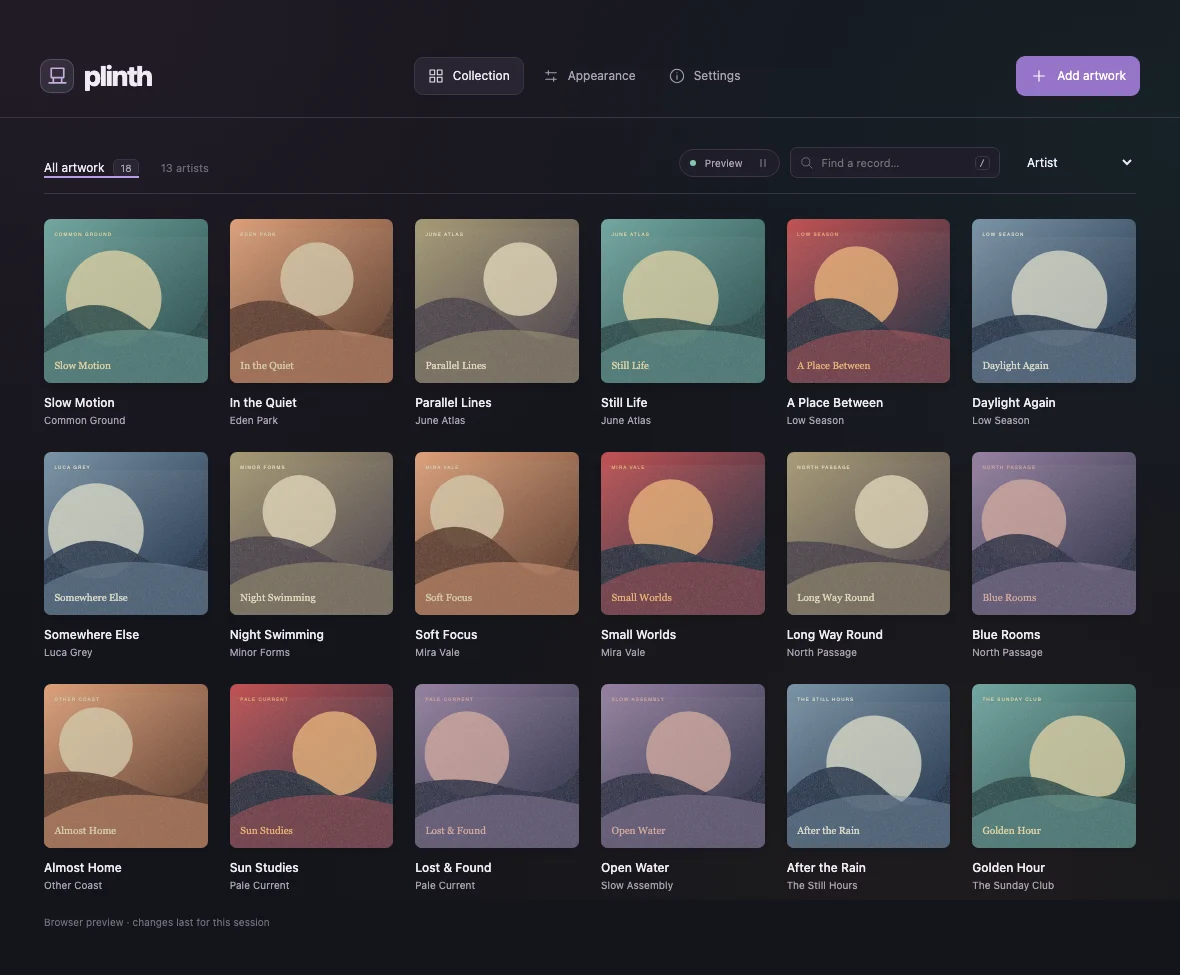
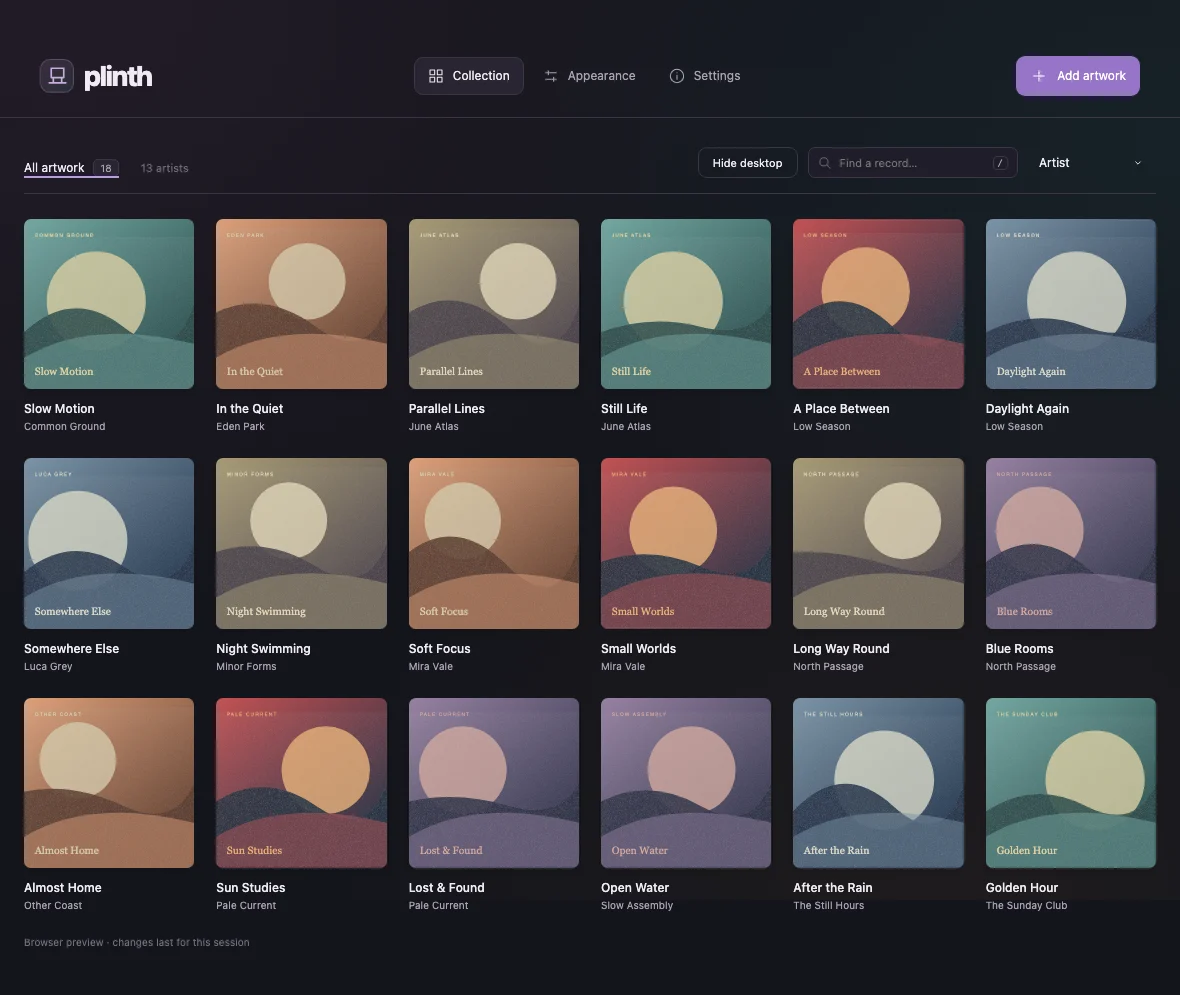
Refine tray actions, artwork controls, navigation, sorting, and window sizing

diff --git a/src/App.svelte b/src/App.svelte
@@ -9,6 +9,9 @@
  import { defaultSettings, ordered, type Library, type Album, type Layout } from './lib/types'
  const desktop=new URLSearchParams(location.search).has('desktop')
  let library:Library={albums:[],settings:structuredClone(defaultSettings)}
+ let sortOpen=false
+ const sortOptions=[{value:'artist',label:'Artist'},{value:'title',label:'Title'},{value:'date',label:'Newest date'},{value:'oldest',label:'Oldest date'},{value:'shuffle',label:'Shuffled'}]
+ function chooseSort(value:string){library.settings.sort=value;if(value==='shuffle'){const next=new Uint32Array(1);do{crypto.getRandomValues(next)}while(next[0]===library.settings.shuffleSeed);library.settings.shuffleSeed=next[0]}sortOpen=false;persist()}
  let page='collection',query='',busy=false,loaded=false,error='',notice='',dragging=false
  let edit:Album|null=null,confirmRemove=false
  let profile:'layout'|'wideLayout'='layout'
@@ -31,7 +34,7 @@
  $: settings=library.settings
  $: layout=settings[profile]
  $: enabled=library.albums.filter(a=>a.enabled)
- $: filtered=ordered(library.albums.filter(a=>`${a.title} ${a.artist}`.toLowerCase().includes(query.toLowerCase())),settings.sort)
+ $: filtered=ordered(library.albums.filter(a=>`${a.title} ${a.artist}`.toLowerCase().includes(query.toLowerCase())),settings.sort,settings.shuffleSeed)
  $: artists=new Set(library.albums.map(a=>a.artist).filter(Boolean)).size
  $: if(typeof document!=='undefined') {document.documentElement.dataset.theme=settings.theme==='system'?(mediaDark?'dark':'light'):settings.theme;document.documentElement.classList.toggle('desktop-document',desktop)}
  $: if(edit && modal && !modal.open) modal.showModal()
@@ -84,7 +87,7 @@
  })
 </script>
 
- <svelte:window onkeydown={(e)=>{if(desktop)return;if((e.metaKey||e.ctrlKey)&&e.key.toLowerCase()==='q'){e.preventDefault();showQuit();return}if((e.metaKey||e.ctrlKey)&&e.key.toLowerCase()==='w'){e.preventDefault();void hideWindow();return}if(e.key==='/' && !(e.target instanceof HTMLInputElement) && !(e.target instanceof HTMLSelectElement)){e.preventDefault();document.querySelector<HTMLInputElement>('.search input')?.focus()}if((e.metaKey||e.ctrlKey)&&e.key==='o'){e.preventDefault();void choose()}if(e.key==='Escape'){if(quitDialog?.open)quitDialog.close();else closeEditor()}}}/>
+ <svelte:window onpointerdown={(e)=>{if(!(e.target instanceof Element)||!e.target.closest('.sort-picker'))sortOpen=false}} onkeydown={(e)=>{if(desktop)return;if(e.key==='Escape'&&sortOpen){sortOpen=false;return}if(e.altKey&&!e.metaKey&&!e.ctrlKey&&(e.code==='KeyQ'||e.code==='KeyW')){if(modal?.open||quitDialog?.open)return;e.preventDefault();const pages=['collection','appearance','settings'];page=pages[(pages.indexOf(page)+(e.code==='KeyQ'?-1:1)+pages.length)%pages.length];return}if((e.metaKey||e.ctrlKey)&&e.key.toLowerCase()==='q'){e.preventDefault();showQuit();return}if((e.metaKey||e.ctrlKey)&&e.key.toLowerCase()==='w'){e.preventDefault();void hideWindow();return}if(e.key==='/' && !(e.target instanceof HTMLInputElement) && !(e.target instanceof HTMLSelectElement)){e.preventDefault();document.querySelector<HTMLInputElement>('.search input')?.focus()}if((e.metaKey||e.ctrlKey)&&e.key==='o'){e.preventDefault();void choose()}if(e.key==='Escape'){if(quitDialog?.open)quitDialog.close();else closeEditor()}}}/>
 {#if desktop}
  <Desktop {library}/>
 {:else}
@@ -104,11 +107,11 @@
   {#if notice}<div class="toast" role="status"><Icon name="check"/>{notice}</div>{/if}
   <main>
    {#if page==='collection'}
-    <section class="collection-toolbar"><div class="collection-tabs"><span class="tab-selected">All artwork <span>{library.albums.length}</span></span><span class="collection-meta">{artists} artists</span></div><div class="toolbar-right"><button class="status-pill" class:paused={!settings.desktopEnabled} aria-pressed={settings.desktopEnabled} onclick={()=>{settings.desktopEnabled=!settings.desktopEnabled;persist()}}><span class="status-dot"></span>{api.native?(settings.desktopEnabled?'Desktop on':'Desktop off'):'Preview'}<Icon name={settings.desktopEnabled?'pause':'play'}/></button><label class="search"><Icon name="search"/><input aria-label="Search collection" type="search" placeholder="Find a record…" bind:value={query}/><kbd>/</kbd></label><select aria-label="Sort collection" bind:value={settings.sort} onchange={persist}><option value="artist">Artist</option><option value="title">Title</option><option value="date">Newest release</option><option value="shuffle">Shuffled</option></select></div></section>
+    <section class="collection-toolbar"><div class="collection-tabs"><span class="tab-selected">All artwork <span>{library.albums.length}</span></span><span class="collection-meta">{artists} artists</span></div><div class="toolbar-right"><button class="desktop-toggle" onclick={()=>{settings.desktopEnabled=!settings.desktopEnabled;persist()}}>{settings.desktopEnabled?'Hide desktop':'Show desktop'}</button><label class="search"><Icon name="search"/><input aria-label="Search collection" type="search" placeholder="Find a record…" bind:value={query}/><kbd>/</kbd></label><div class="sort-picker"><button class="sort-trigger" aria-label="Sort collection" aria-haspopup="menu" aria-expanded={sortOpen} onclick={()=>sortOpen=!sortOpen}>{sortOptions.find(o=>o.value===settings.sort)?.label}<Icon name="chevron"/></button>{#if sortOpen}<div class="sort-menu" role="menu" aria-label="Sort collection">{#each sortOptions as option}<button role="menuitemradio" aria-checked={settings.sort===option.value} onclick={()=>chooseSort(option.value)}>{option.label}{#if settings.sort===option.value}<Icon name="check"/>{/if}</button>{/each}</div>{/if}</div></div></section>
     {#if !loaded}<div class="empty-state"><Icon name="plinth"/><h2>Opening your collection…</h2></div>
     {:else if library.albums.length===0}<div class="empty-state"><div class="empty-art"><Icon name="music"/></div><span class="eyebrow">ROOM FOR YOUR FAVORITES</span><h2>Start with a record you love.</h2><p>Drop your artwork here, or choose images from your Mac.<br/>We’ll resize and organize everything for you.</p><div class="actions"><button class="primary" onclick={()=>choose()}><Icon name="plus"/>Add artwork</button></div><small>PNG, JPEG, WebP, GIF, TIFF, and BMP</small></div>
     {:else if filtered.length===0}<div class="empty-state"><Icon name="search"/><h2>No records found.</h2><button onclick={()=>query=''}>Clear search</button></div>
-    {:else}<div class="album-grid">{#each filtered as album (album.id)}<article class="album-card" class:disabled={!album.enabled}><button class="artwork" onclick={()=>{edit={...album};confirmRemove=false}} aria-label={`Edit ${album.title}`}><img src={api.coverUrl(album)} alt={`${album.title} artwork`} loading="lazy"/><span class="artwork-edit"><Icon name="settings"/>Edit record</span>{#if !album.enabled}<span class="hidden-label">Hidden</span>{/if}</button><div class="album-caption"><div><h2 title={album.title}>{album.title}</h2><p title={album.artist}>{album.artist||'Unknown artist'}</p></div><button class="icon-only album-open" title="Open in Music" aria-label={`Open ${album.title} in Music`} onclick={()=>open(album)}><Icon name="arrow"/></button></div></article>{/each}</div>{/if}
+    {:else}<div class="album-grid">{#each filtered as album (album.id)}<article class="album-card" class:disabled={!album.enabled}><button class="artwork" onclick={()=>{edit={...album};confirmRemove=false}} aria-label={`Edit ${album.title}`}><img draggable="false" ondragstart={(e)=>e.preventDefault()} src={api.coverUrl(album)} alt={`${album.title} artwork`} loading="lazy"/><span class="artwork-edit"><Icon name="settings"/>Edit record</span>{#if !album.enabled}<span class="hidden-label">Hidden</span>{/if}</button><div class="album-caption"><div><h2 title={album.title}>{album.title}</h2><p title={album.artist}>{album.artist||'Unknown artist'}</p></div><button class="icon-only album-open" title="Open in Music" aria-label={`Open ${album.title} in Music`} onclick={()=>open(album)}><Icon name="arrow"/></button></div></article>{/each}</div>{/if}
    {:else if page==='appearance'}
     <div class="appearance-layout"><section class="preview-column">
     <div class="screen-picker" role="group" aria-label="Preview display">
@@ -138,8 +141,8 @@
  </div>
  <input class="visually-hidden" bind:this={files} type="file" accept="image/*" multiple onchange={(e)=>{void browserFiles(Array.from(e.currentTarget.files??[]));e.currentTarget.value=''}} aria-label="Artwork files"/>
  <input class="visually-hidden" bind:this={replacementFiles} type="file" accept="image/*" aria-label="Replacement image" onchange={(e)=>{const file=e.currentTarget.files?.[0];if(file)void replace(file);e.currentTarget.value=''}}/>
- <dialog bind:this={modal} onpointerdown={(e)=>backdropPointerDown=e.target===modal&&outsideDialog(modal,e)} onpointerup={(e)=>{if(backdropPointerDown&&e.target===modal&&outsideDialog(modal,e))closeEditor();backdropPointerDown=false}} onclose={()=>{edit=null;confirmRemove=false}} oncancel={closeEditor}>
- {#if edit}<form onsubmit={(e)=>{e.preventDefault();void saveAlbum()}}><div class="modal-heading"><button class="icon-only" type="button" aria-label="Close album editor" onclick={closeEditor}><Icon name="close"/></button></div><div class="editor-top"><div class="editor-artwork" bind:this={artworkTarget} class:replacing ondragover={(e)=>e.preventDefault()} ondrop={(e)=>{e.preventDefault();if(!api.native&&e.dataTransfer?.files.length===1)void replace(e.dataTransfer.files[0])}} role="presentation"><img src={api.originalUrl(edit)} alt={edit.title}/><div class="artwork-actions"><button type="button" class="icon-only" aria-label="Download original artwork" title="Download original artwork" onclick={download} disabled={replacing}><Icon name="download"/></button><button type="button" class="icon-only" aria-label="Replace artwork" title="Replace artwork" onclick={chooseReplacement} disabled={replacing}><Icon name="replace"/></button></div>{#if replacing}<span class="replacement-progress">Replacing…</span>{/if}</div><div><span class="eyebrow">IN YOUR COLLECTION</span><h3>{edit.title}</h3><p>{edit.artist||'Make it your own.'}</p><button type="button" class="text-button" onclick={()=>edit&&open(edit)}><Icon name="music"/>Open in Music</button></div></div><label>Album title<input required bind:value={edit.title}/></label><div class="two-fields"><label>Artist<input bind:value={edit.artist}/></label><label>Release date<input type="date" bind:value={edit.date}/></label></div><label>Album link <span class="optional">optional</span><input type="url" placeholder="https://music.apple.com/…" bind:value={edit.url}/></label><label class="toggle-row"><span>Show on desktop</span><input class="switch" type="checkbox" bind:checked={edit.enabled}/></label><div class="editor-actions">{#if confirmRemove}<button type="button" class="danger" onclick={remove}>Remove this album</button><button type="button" onclick={()=>confirmRemove=false}>Keep it</button>{:else}<button type="button" class="icon-only danger" aria-label="Remove album" onclick={()=>confirmRemove=true}><Icon name="trash"/></button><button type="submit" class="primary"><Icon name="check"/>Save changes</button>{/if}</div></form>{/if}
+ <dialog class="album-dialog" bind:this={modal} onpointerdown={(e)=>backdropPointerDown=e.target===modal&&outsideDialog(modal,e)} onpointerup={(e)=>{if(backdropPointerDown&&e.target===modal&&outsideDialog(modal,e))closeEditor();backdropPointerDown=false}} onclose={()=>{edit=null;confirmRemove=false}} oncancel={closeEditor}>
+ {#if edit}<form onsubmit={(e)=>{e.preventDefault();void saveAlbum()}}><div class="modal-heading"><button class="icon-only" type="button" aria-label="Close album editor" onclick={closeEditor}><Icon name="close"/></button></div><div class="editor-top"><div class="editor-artwork" bind:this={artworkTarget} class:replacing ondragover={(e)=>e.preventDefault()} ondrop={(e)=>{e.preventDefault();if(!api.native&&e.dataTransfer?.files.length===1)void replace(e.dataTransfer.files[0])}} role="presentation"><img draggable="false" ondragstart={(e)=>e.preventDefault()} src={api.originalUrl(edit)} alt={edit.title}/><div class="artwork-actions"><button type="button" class="icon-only" aria-label="Download original artwork" title="Download original artwork" onclick={download} disabled={replacing}><Icon name="download"/></button><button type="button" class="icon-only" aria-label="Replace artwork" title="Replace artwork" onclick={chooseReplacement} disabled={replacing}><Icon name="replace"/></button></div>{#if replacing}<span class="replacement-progress">Replacing…</span>{/if}</div><div><span class="eyebrow">IN YOUR COLLECTION</span><h3>{edit.title}</h3><p>{edit.artist||'Make it your own.'}</p><button type="button" class="text-button" onclick={()=>edit&&open(edit)}><Icon name="music"/>Open in Music</button></div></div><label>Album title<input required bind:value={edit.title}/></label><div class="two-fields"><label>Artist<input bind:value={edit.artist}/></label><label>Release date<input type="date" bind:value={edit.date}/></label></div><label>Album link <span class="optional">optional</span><input type="url" placeholder="https://music.apple.com/…" bind:value={edit.url}/></label><label class="toggle-row"><span>Show on desktop</span><input class="switch" type="checkbox" bind:checked={edit.enabled}/></label><div class="editor-actions">{#if confirmRemove}<button type="button" class="danger" onclick={remove}>Remove this album</button><button type="button" onclick={()=>confirmRemove=false}>Keep it</button>{:else}<button type="button" class="icon-only danger" aria-label="Remove album" onclick={()=>confirmRemove=true}><Icon name="trash"/></button><button type="submit" class="primary"><Icon name="check"/>Save changes</button>{/if}</div></form>{/if}
  </dialog>
  <dialog class="quit-dialog" bind:this={quitDialog} aria-labelledby="quit-title" onpointerdown={(e)=>quitBackdropDown=e.target===quitDialog&&outsideDialog(quitDialog,e)} onpointerup={(e)=>{if(quitBackdropDown&&e.target===quitDialog&&outsideDialog(quitDialog,e))quitDialog.close();quitBackdropDown=false}}>
   <h2 id="quit-title">Quit Plinth?</h2><p>Hide the window to keep your desktop running, or quit Plinth.</p>

diff --git a/src/app.css b/src/app.css
@@ -19,3 +19,8 @@ dialog{width:min(510px,calc(100vw - 40px));padding:26px;border:1px solid var(--l
 .editor-artwork{position:relative;width:170px;flex:0 0 170px;aspect-ratio:1;border-radius:8px;overflow:hidden;background:var(--paper)}.editor-artwork>img{display:block;width:100%;height:100%;object-fit:contain}.artwork-actions{position:absolute;inset:auto 0 0;display:flex;justify-content:flex-end;gap:5px;padding:20px 7px 7px;background:linear-gradient(transparent,#0008)}.artwork-actions button.icon-only{color:white;background:#24212bd9;border:1px solid #ffffff2b;backdrop-filter:blur(8px)}.artwork-actions button.icon-only:hover{background:#4b415de8}.editor-artwork.replacing>img{opacity:.4}.replacement-progress{position:absolute;inset:40% 0 auto;text-align:center;font-size:12px}
 
 .quit-dialog{width:min(440px,calc(100vw - 40px))}.quit-dialog h2{font-size:20px;margin-bottom:14px}.quit-dialog p{font-size:13px;line-height:1.7;color:var(--muted)}.quit-actions{display:flex;justify-content:flex-end;gap:8px;margin-top:26px}.quit-actions button{font-size:12px;padding:9px 12px}
+
+/* Artwork remains the focus; hover actions share the lower edge. */
+.album-dialog{width:min(650px,calc(100vw - 32px))}.editor-top{gap:24px;align-items:center}.editor-artwork{width:300px;flex:0 0 300px}.artwork-actions{inset:auto 0 0;height:36%;display:grid;grid-template-columns:1fr 1fr;gap:0;padding:0;background:linear-gradient(transparent,#0008);opacity:0;transform:translateY(14px);transition:opacity .2s ease,transform .2s ease;pointer-events:none}.editor-artwork:hover .artwork-actions,.editor-artwork:focus-within .artwork-actions{opacity:1;transform:translateY(0);pointer-events:auto}.artwork-actions button.icon-only{width:100%;height:100%;padding:30px 0 10px;border:0;border-radius:0;background:transparent;backdrop-filter:none;color:#ffffffe0;align-items:flex-end}.artwork-actions button.icon-only:hover{background:linear-gradient(transparent,#ffffff0d);color:white}.artwork-actions svg{width:23px;height:23px;filter:drop-shadow(0 1px 3px #0008)}img{-webkit-user-drag:none;user-select:none}.desktop-toggle{min-width:100px;font-size:11px;padding:8px 12px;justify-content:center;text-align:center}.app-shell main{max-width:none;width:100%;padding-inline:24px}.album-grid{width:100%}@media(max-width:700px){.editor-artwork{width:260px;flex-basis:260px}.editor-top{gap:16px}}@media(max-width:520px){.editor-top{flex-direction:column;align-items:stretch}.editor-artwork{width:100%;max-width:320px;flex-basis:auto;margin:0 auto}.app-shell main{padding-inline:16px}}
+
+.sort-picker{position:relative}.sort-trigger{font-size:12px;min-width:128px;justify-content:space-between;border-color:transparent;padding:8px 10px}.sort-trigger svg{width:14px;height:14px}.sort-menu{position:absolute;z-index:30;right:0;top:calc(100% + 7px);width:175px;background:var(--paper-strong);border:1px solid var(--line);border-radius:9px;box-shadow:0 10px 30px #0004;padding:5px}.sort-menu button{width:100%;border:0;justify-content:space-between;border-radius:5px;font-size:12px;padding:10px}.sort-menu button[aria-checked=true]{color:var(--accent)}.sort-menu button:hover{background:var(--paper)}.sort-menu button svg{width:14px;height:14px}@media(max-width:760px){.toolbar-right{flex-wrap:wrap;justify-content:flex-end}.desktop-toggle{min-width:90px}.sort-trigger{min-width:105px}}

diff --git a/src/lib/types.ts b/src/lib/types.ts
@@ -1,7 +1,8 @@
 export interface Album { id: string; title: string; artist: string; date: string; url: string; cover: string; original: string; enabled: boolean }
 export interface Layout { columns: number; gap: number; rowGap: number; top: number; bottom: number; radius: number; shadow: number }
-export interface Settings { layout: Layout; wideLayout: Layout; hoverScale: number; hoverEnabled: boolean; dimOthers: boolean; opacity: number; sort: string; theme: string; desktopEnabled: boolean; openMode: string }
+export interface Settings { layout: Layout; wideLayout: Layout; hoverScale: number; hoverEnabled: boolean; dimOthers: boolean; opacity: number; sort: string; shuffleSeed: number; theme: string; desktopEnabled: boolean; openMode: string }
 export interface Library { albums: Album[]; settings: Settings }
 export const defaultLayout: Layout = { columns: 12, gap: 6, rowGap: 14, top: 42, bottom: 100, radius: 5, shadow: .4 }
-export const defaultSettings: Settings = { layout: {...defaultLayout}, wideLayout: {...defaultLayout, columns: 18}, hoverScale: 2.1, hoverEnabled: true, dimOthers: false, opacity: 1, sort: 'artist', theme: 'dark', desktopEnabled: true, openMode: 'library' }
-export function ordered(albums: Album[], sort: string) { return [...albums].sort((a,b) => sort === 'shuffle' ? a.id.localeCompare(b.id) : sort === 'date' ? b.date.localeCompare(a.date) : sort === 'title' ? a.title.localeCompare(b.title) : a.artist.localeCompare(b.artist) || a.date.localeCompare(b.date) || a.title.localeCompare(b.title)) }
+export const defaultSettings: Settings = { layout: {...defaultLayout}, wideLayout: {...defaultLayout, columns: 18}, hoverScale: 2.1, hoverEnabled: true, dimOthers: false, opacity: 1, sort: 'artist', shuffleSeed:0, theme: 'dark', desktopEnabled: true, openMode: 'library' }
+function shuffleRank(id:string,seed:number){let h=seed^2166136261;for(let i=0;i<id.length;i++){h=Math.imul(h^id.charCodeAt(i),16777619)}h=Math.imul(h^(h>>>16),2246822507);h=Math.imul(h^(h>>>13),3266489909);return (h^(h>>>16))>>>0}
+export function ordered(albums: Album[], sort: string, seed=0) { return [...albums].sort((a,b) => sort === 'shuffle' ? shuffleRank(a.id,seed)-shuffleRank(b.id,seed) : sort === 'date' ? b.date.localeCompare(a.date) : sort === 'oldest' ? a.date.localeCompare(b.date) : sort === 'title' ? a.title.localeCompare(b.title) : a.artist.localeCompare(b.artist) || a.date.localeCompare(b.date) || a.title.localeCompare(b.title)) }

diff --git a/tests/app.spec.ts b/tests/app.spec.ts
@@ -62,3 +62,17 @@ test('quit modal supports cancel, backdrop dismissal and hide',async({page})=>{
  await page.keyboard.press('Control+q');await page.mouse.click(5,5);await expect(page.getByRole('dialog')).not.toBeVisible()
  await page.keyboard.press('Control+q');await page.getByRole('button',{name:'Hide window',exact:true}).click();await expect(page.getByRole('dialog')).not.toBeVisible()
 })
+
+test('shuffle can be selected repeatedly and oldest date follows newest date',async({page})=>{
+ await page.goto('/?demo=1');const titles=()=>page.locator('.album-caption h2').allTextContents()
+ await page.getByRole('button',{name:'Sort collection',exact:true}).click();await page.getByRole('menuitemradio',{name:'Shuffled',exact:true}).click();const first=await titles()
+ await page.getByRole('button',{name:'Sort collection',exact:true}).click();await page.getByRole('menuitemradio',{name:'Shuffled',exact:true}).click();expect(await titles()).not.toEqual(first)
+ await page.getByRole('button',{name:'Sort collection',exact:true}).click();await expect(page.getByRole('menuitemradio')).toHaveText(['Artist','Title','Newest date','Oldest date','Shuffled'])
+ await page.getByRole('menuitemradio',{name:'Oldest date',exact:true}).click();await expect(page.getByRole('button',{name:'Sort collection',exact:true})).toHaveText('Oldest date')
+})
+test('Option page navigation wraps, desktop toggle uses action labels, internal artwork cannot drag',async({page})=>{
+ await page.goto('/?demo=1');await page.getByRole('button',{name:'Hide desktop',exact:true}).click();await expect(page.getByRole('button',{name:'Show desktop',exact:true})).toBeVisible()
+ await page.keyboard.press('Alt+KeyQ');await expect(page.getByRole('group',{name:'App appearance'})).toBeVisible();await page.keyboard.press('Alt+KeyW');await expect(page.locator('.album-grid')).toBeVisible()
+ const image=page.locator('.artwork img').first();await expect(image).toHaveAttribute('draggable','false')
+ await page.getByRole('button',{name:'Edit Soft Focus',exact:true}).click();await expect(page.locator('.editor-artwork>img')).toHaveAttribute('draggable','false');await expect(page.locator('.artwork-actions')).toHaveCSS('opacity','0');await page.locator('.editor-artwork').hover();await expect(page.locator('.artwork-actions')).toHaveCSS('opacity','1')
+})

diff --git a/tests/screenshots.spec.ts b/tests/screenshots.spec.ts
@@ -14,6 +14,11 @@ test('README screenshots use only synthetic demo artwork',async({page})=>{
  await page.getByRole('button',{name:'Settings',exact:true}).click()
  await page.mouse.move(0,0)
  await sharp(await page.screenshot({fullPage:true,animations:'disabled'})).webp({quality:86}).toFile('docs/screenshots/settings.webp')
+ await page.getByRole('button',{name:'Collection',exact:true}).click()
+ await page.getByRole('button',{name:'Edit Soft Focus',exact:true}).click()
+ await page.locator('.editor-artwork').hover()
+ await sharp(await page.locator('.album-dialog').screenshot({animations:'disabled'})).webp({quality:86}).toFile('docs/screenshots/album.webp')
+ await page.getByRole('button',{name:'Close album editor'}).click()
  await page.keyboard.press('Control+q')
  await sharp(await page.getByRole('dialog',{name:'Quit Plinth?'}).screenshot()).webp({quality:86}).toFile('docs/screenshots/quit.webp')
 })

diff --git a/src/lib/Desktop.svelte b/src/lib/Desktop.svelte
@@ -15,7 +15,7 @@
  let lastPointer={x:0,y:0,visible:false}
  $: settings=library.settings
  $: layout=forcedLayout??(width>1900?settings.wideLayout:settings.layout)
- $: albums=ordered(library.albums.filter(a=>a.enabled),settings.sort)
+ $: albums=ordered(library.albums.filter(a=>a.enabled),settings.sort,settings.shuffleSeed)
  function hoverAt(x:number,y:number,visible:boolean) {
   lastPointer={x,y,visible}
   if(!visible || !settings.hoverEnabled) {hovered='';return}

diff --git a/src-tauri/src/main.rs b/src-tauri/src/main.rs
@@ -5,9 +5,17 @@ use library::{Album, Library, Settings};
 use std::{path::PathBuf, process::Command, sync::Mutex};
 use tauri::{
     menu::{Menu, MenuItem},
-    tray::TrayIconBuilder,
+    tray::{MouseButton, MouseButtonState, TrayIconBuilder, TrayIconEvent},
     Emitter, Manager, State,
 };
+struct DesktopMenu(MenuItem<tauri::Wry>);
+fn desktop_action(enabled: bool) -> &'static str {
+    if enabled {
+        "Hide desktop"
+    } else {
+        "Show desktop"
+    }
+}
 struct Store {
     dir: PathBuf,
     library: Mutex<Library>,
@@ -20,6 +28,13 @@ fn editor(window: &tauri::WebviewWindow) -> Result<(), String> {
     }
 }
 fn broadcast(app: &tauri::AppHandle, library: &Library) {
+    let handle = app.clone();
+    let enabled = library.settings.desktop_enabled;
+    let _ = app.run_on_main_thread(move || {
+        if let Some(menu) = handle.try_state::<DesktopMenu>() {
+            let _ = menu.0.set_text(desktop_action(enabled));
+        }
+    });
     let _ = app.emit("library-changed", library);
 }
 #[tauri::command]
@@ -282,6 +297,44 @@ fn reveal_data(window: tauri::WebviewWindow, store: State<Store>) -> Result<(), 
         .map_err(|e| e.to_string())?;
     Ok(())
 }
+fn remember_window_size(app: &tauri::AppHandle) {
+    if let Some(w) = app.get_webview_window("main") {
+        if let (Ok(size), Ok(scale)) = (w.inner_size(), w.scale_factor()) {
+            if size.width == 0 || size.height == 0 {
+                return;
+            }
+            let dir = library::data_dir();
+            let _ = std::fs::create_dir_all(&dir);
+            let value = serde_json::json!({"width":size.width as f64/scale,"height":size.height as f64/scale});
+            if std::fs::write(dir.join("window.json.tmp"), value.to_string()).is_ok() {
+                let _ = std::fs::rename(dir.join("window.json.tmp"), dir.join("window.json"));
+            }
+        }
+    }
+}
+fn restore_window_size(app: &tauri::AppHandle) {
+    let result = (|| -> Option<()> {
+        let data = std::fs::read(library::data_dir().join("window.json")).ok()?;
+        let size: serde_json::Value = serde_json::from_slice(&data).ok()?;
+        let w = app.get_webview_window("main")?;
+        let width = size["width"].as_f64()?;
+        let height = size["height"].as_f64()?;
+        if !width.is_finite() || !height.is_finite() {
+            return None;
+        }
+        let monitor = w.current_monitor().ok()??;
+        let scale = monitor.scale_factor();
+        let max_width = (monitor.size().width as f64 / scale).max(640.);
+        let max_height = (monitor.size().height as f64 / scale - 50.).max(500.);
+        let _ = w.set_size(tauri::LogicalSize::new(
+            width.clamp(640., max_width),
+            height.clamp(500., max_height),
+        ));
+        let _ = w.center();
+        Some(())
+    })();
+    let _ = result;
+}
 fn show_main(app: &tauri::AppHandle) {
     #[cfg(target_os = "macos")]
     let _ = app.set_activation_policy(tauri::ActivationPolicy::Regular);
@@ -291,6 +344,7 @@ fn show_main(app: &tauri::AppHandle) {
     }
 }
 fn hide_main(app: &tauri::AppHandle) {
+    remember_window_size(app);
     if let Some(w) = app.get_webview_window("main") {
         let _ = w.hide();
     }
@@ -312,6 +366,7 @@ fn hide_window(window: tauri::WebviewWindow, app: tauri::AppHandle) -> Result<()
 #[tauri::command]
 fn quit_app(window: tauri::WebviewWindow, app: tauri::AppHandle) -> Result<(), String> {
     editor(&window)?;
+    remember_window_size(&app);
     app.exit(0);
     Ok(())
 }
@@ -375,12 +430,18 @@ fn main() {
             #[cfg(target_os = "macos")]
             app.set_activation_policy(tauri::ActivationPolicy::Accessory);
             let open = MenuItem::with_id(app, "open", "Open Plinth", true, None::<&str>)?;
+            let enabled = app
+                .state::<Store>()
+                .library
+                .lock()
+                .unwrap()
+                .settings
+                .desktop_enabled;
             let toggle =
-                MenuItem::with_id(app, "toggle", "Show / hide desktop", true, None::<&str>)?;
-            let refresh =
-                MenuItem::with_id(app, "refresh", "Refresh displays", true, None::<&str>)?;
+                MenuItem::with_id(app, "toggle", desktop_action(enabled), true, None::<&str>)?;
+            app.manage(DesktopMenu(toggle.clone()));
             let quit = MenuItem::with_id(app, "quit", "Quit Plinth", true, None::<&str>)?;
-            let menu = Menu::with_items(app, &[&open, &toggle, &refresh, &quit])?;
+            let menu = Menu::with_items(app, &[&open, &toggle, &quit])?;
             TrayIconBuilder::new()
                 .icon(tauri::image::Image::from_bytes(include_bytes!(
                     "../icons/tray.png"
@@ -388,6 +449,17 @@ fn main() {
                 .icon_as_template(true)
                 .tooltip("Plinth — your records, on your desktop")
                 .menu(&menu)
+                .show_menu_on_left_click(false)
+                .on_tray_icon_event(|tray, event| {
+                    if let TrayIconEvent::Click {
+                        button: MouseButton::Left,
+                        button_state: MouseButtonState::Up,
+                        ..
+                    } = event
+                    {
+                        show_main(tray.app_handle());
+                    }
+                })
                 .on_menu_event(|app, event| match event.id.as_ref() {
                     "open" => show_main(app),
                     "quit" => request_quit(app),
@@ -401,15 +473,6 @@ fn main() {
                             }
                         };
                     }
-                    "refresh" => {
-                        let store = app.state::<Store>();
-                        let enabled = store
-                            .library
-                            .lock()
-                            .map(|l| l.settings.desktop_enabled)
-                            .unwrap_or(false);
-                        let _ = desktop::rebuild(app, enabled);
-                    }
                     _ => {}
                 })
                 .build(app)?;
@@ -422,6 +485,7 @@ fn main() {
                 .desktop_enabled;
             desktop::rebuild(app.handle(), enabled)?;
             desktop::start_pointer_tracking(app.handle().clone());
+            restore_window_size(app.handle());
             show_main(app.handle());
             Ok(())
         })

diff --git a/src-tauri/src/library.rs b/src-tauri/src/library.rs
@@ -51,6 +51,7 @@ pub struct Settings {
     pub dim_others: bool,
     pub opacity: f64,
     pub sort: String,
+    pub shuffle_seed: u32,
     pub theme: String,
     pub desktop_enabled: bool,
     pub open_mode: String,
@@ -68,6 +69,7 @@ impl Default for Settings {
             dim_others: false,
             opacity: 1.,
             sort: "artist".into(),
+            shuffle_seed: 0,
             theme: "dark".into(),
             desktop_enabled: true,
             open_mode: "library".into(),
@@ -275,7 +277,7 @@ pub fn validate_settings(s: &Settings) -> Result<(), String> {
     {
         return Err("Invalid appearance values".into());
     }
-    if !["artist", "title", "date", "shuffle"].contains(&s.sort.as_str())
+    if !["artist", "title", "date", "oldest", "shuffle"].contains(&s.sort.as_str())
         || !["dark", "light", "system"].contains(&s.theme.as_str())
         || !["library", "link"].contains(&s.open_mode.as_str())
     {

diff --git a/README.md b/README.md
@@ -9,15 +9,17 @@ Plinth is a macOS menu bar app that turns your album artwork into an interactive
 ## What it does
 
 - **Drop artwork in.** Import individual images. Plinth preserves originals, creates optimized JPEGs up to 1200 px, and skips exact duplicates. PNG, JPEG, WebP, GIF (first frame), TIFF, and BMP are supported.
-- **Make it yours.** Change columns, spacing, top clearance, scroll space, corner radius, shadow, opacity, hover size, and ordering in the UI. Choose a Mac display or 4K monitor preview with the actual display proportions and a separate layout for each.
-- **Keep your music close.** Click a desktop cover to reveal its album in Apple Music, or open its saved HTTPS link. Edit titles, artists, release dates, links, and desktop visibility in the collection. The editor shows original artwork, with download and replace buttons; drop a single image onto it to replace it. The collection and desktop use optimized copies.
+- **Make it yours.** Change columns, spacing, top clearance, scroll space, corner radius, shadow, opacity, hover size, and ordering in the UI. Sort by artist, title, newest date, oldest date, or shuffle; choosing Shuffled again creates a new order. Choose a Mac display or 4K monitor preview with the actual display proportions and a separate layout for each.
+- **Keep your music close.** Click a desktop cover to reveal its album in Apple Music, or open its saved HTTPS link. Edit titles, artists, release dates, links, and desktop visibility in the collection. The editor shows large original artwork, with download and replace controls that fade in on hover; drop a single image onto it to replace it. The collection and desktop use optimized copies.
 - **Hover without switching apps.** Native macOS pointer tracking enlarges covers over exposed desktop areas while another app retains focus. Covers stay behind normal windows; moving over another window clears the hover.
-- **Stay in the menu bar.** Plinth appears in the Dock while its window is open. Closing the window or pressing Command-W hides it and keeps the desktop running. Command-Q offers Hide window, Quit Plinth, and Cancel. The menu bar icon opens Plinth, pauses the desktop, refreshes displays, or quits.
+- **Stay in the menu bar.** Plinth appears in the Dock while its window is open. Closing the window or pressing Command-W hides it and keeps the desktop running. Command-Q offers Hide window, Quit Plinth, and Cancel. Left-click the menu bar icon to open Plinth. Right-click for Open Plinth, Hide desktop / Show desktop, and Quit Plinth.
 - **Keep everything local.** No account, cloud service, analytics, or encryption setup. The production app does not run an HTTP server or depend on Plash or Python.
 
 ![Live appearance controls](docs/screenshots/appearance.webp)
 
 ![App settings](docs/screenshots/settings.webp)
+
+![Original artwork and hover controls](docs/screenshots/album.webp)
 
 The screenshots contain only synthetic artwork and fictional album metadata. No personal music collection is included in this repository.
 
@@ -27,7 +29,9 @@ Launch `Plinth.app`, choose **Add artwork**, or drop image files into the librar
 
 Missing albums show a native macOS alert. The first Music action may ask for macOS Automation permission. Library mode searches album titles in your local Music library; link mode opens the URL you saved. No Apple Music API credentials are needed.
 
-The desktop is a transparent native window above the wallpaper and desktop icons, below ordinary windows. It can receive clicks and scrolling. Covers enlarge without activating Plinth; this does not draw over your foreground apps. Use the menu bar’s **Refresh displays** after changing monitor arrangements. Add Plinth in **System Settings → General → Login Items** if you want it to start at login.
+The desktop is a transparent native window above the wallpaper and desktop icons, below ordinary windows. It can receive clicks and scrolling. Covers enlarge without activating Plinth; this does not draw over your foreground apps. Restart Plinth after changing monitor arrangements. Add Plinth in **System Settings → General → Login Items** if you want it to start at login.
+
+Option-Q and Option-W move to the previous or next page, wrapping at either end. Window size is remembered when you close or quit; new installations open at 900 × 720 points.
 
 ## Local data and backups
 
@@ -37,6 +41,7 @@ On macOS, data is stored under:
 ~/Library/Application Support/com.plinth.desktop/
   library.json           # Album metadata and appearance settings
   library.previous.json  # Previous saved database
+  window.json            # Remembered main-window size
   originals/             # Unmodified imported images
   covers/                # Optimized desktop JPEGs
 ```

diff --git a/AGENTS.md b/AGENTS.md
@@ -26,3 +26,6 @@
 - Album editor uses original artwork with download and replacement controls; the collection and desktop use compressed copies.
 - Keep the whole top strip draggable and free of status copy.
 - Show a Dock icon while the main window is visible; hide it when the window closes. Command-W keeps the desktop running. Command-Q opens a Hide window / Quit Plinth / Cancel modal.
+- Left-click the menu bar icon opens the window; right-click opens its menu. Use “Hide desktop” / “Show desktop” labels in both menu and UI, synchronized to saved state.
+- Original artwork in the modal is large, with two subtle hover actions across its bottom edge. Disable dragging internal images; accept external image drops.
+- Option-Q / Option-W navigate pages with wraparound. Remember the main window size; keep the collection full-width with modest gutters.
